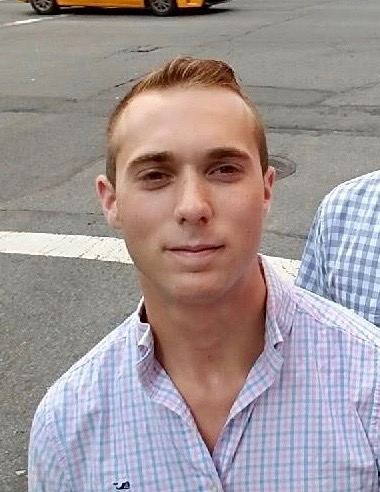
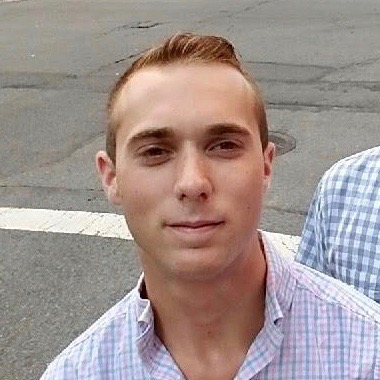
resized image

diff --git a/client/src/views/AboutUs.js b/client/src/views/AboutUs.js
@@ -4,6 +4,7 @@ import Tomas from '../imgs/tomasfox.jpg'
 import Michael from '../imgs/michaelbundick.png'
 import Matt from '../imgs/Matt.jpeg'
 import Nico from '../imgs/Nico.jpg'
+import Daniel from '../imgs/daniel.png'
 
 
 const teamMembers = [
@@ -17,7 +18,7 @@ const teamMembers = [
     },
     {
         name: "Daniel Harris",
-        img: '../imgs/daniel.png',
+        img: Daniel,
         linkedin: 'https://www.linkedin.com/in/daniel-harris-45a417176/',
         github: 'https://github.com/veritaem',
         about: 'Hello!  I am studying Data Science currently and have projects involving predictive maintenance, political trends, and violence levels in the US.  I love smores, nerding out and gaming with others, and working on interesting questions!'

diff --git a/client/src/components/AboutMe.js b/client/src/components/AboutMe.js
@@ -13,6 +13,7 @@ const AboutMe = props => {
         <div>
             <h3>{props.member.name}</h3>
             <p>{props.member.about}</p>
+            <img src={props.member.img} alt={props.member.name} width='300px' height='300px'/>
             <a href={props.member.linkedin} target='_blank' rel='noopener noreferrer'><ImageLog src={linked} alt=''/></a>
             <a href={props.member.github} target='_blank' rel='noopener noreferrer'><ImageLog src={github} alt=''/></a>
         </div>
